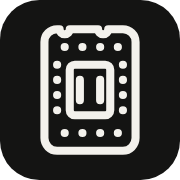
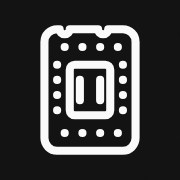
style: swap the beige default light theme for a neutral near-white

diff --git a/notas/site-theme/index.html b/notas/site-theme/index.html
@@ -10,7 +10,7 @@
   <meta name="author" content="Baselarte Ltda.">
   <meta name="application-name" content="Baselarte">
   <meta name="color-scheme" content="light dark">
-  <meta name="theme-color" content="#f3f1ec">
+  <meta name="theme-color" content="#fafafa">
 
   <!-- Sets theme (by local time) and language before first paint. -->
   <script src="../../boot.js"></script>
@@ -95,7 +95,7 @@
         </section>
         <section class="content-section" aria-labelledby="studio">
           <h2 id="studio"><span class="pt">O tema Estúdio</span><span class="en">The Studio theme</span></h2>
-<p><span class="pt">Foi derivado do visual do site <a href="https://www.estudio41.com.br/">estudio41.com.br</a>: lemos as fontes, cores e o fundo de suas páginas e montamos um sistema próprio a partir disso. Nenhuma imagem ou arquivo do site de referência foi copiado.</span><span class="en">It was derived from the look of <a href="https://www.estudio41.com.br/">estudio41.com.br</a>: we read the fonts, colours and background of its pages and built our own system from that. No image or file from the reference site was copied.</span></p><div class="scroll-x"><table class="ds-table"><thead><tr><th><span class="pt">Aspecto</span><span class="en">Aspect</span></th><th><span class="pt">Padrão</span><span class="en">Default</span></th><th><span class="pt">Estúdio</span><span class="en">Studio</span></th></tr></thead><tbody><tr><td><span class="pt">Papel / tinta</span><span class="en">Paper / ink</span></td><td>#f3f1ec / #141413</td><td>#ffffff / #171617</td></tr><tr><td><span class="pt">Texto secundário</span><span class="en">Muted text</span></td><td>#6c6a65</td><td>#555659</td></tr><tr><td><span class="pt">Títulos</span><span class="en">Headings</span></td><td>Geist</td><td>Lato 900, <span class="pt">maiúsculas</span><span class="en">uppercase</span></td></tr><tr><td><span class="pt">Texto</span><span class="en">Body</span></td><td>Geist 400</td><td>Open Sans 300</td></tr><tr><td><span class="pt">Ênfase (<code>em</code>)</span><span class="en">Emphasis (<code>em</code>)</span></td><td><span class="pt">Serifa itálica</span><span class="en">Italic serif</span></td><td><span class="pt">Lato em negrito</span><span class="en">Lato bold</span></td></tr><tr><td><span class="pt">Cantos</span><span class="en">Corners</span></td><td><span class="pt">Arredondados nos botões</span><span class="en">Rounded on buttons</span></td><td><span class="pt">Quadrados em tudo</span><span class="en">Square everywhere</span></td></tr><tr><td><span class="pt">Botões</span><span class="en">Buttons</span></td><td><span class="pt">Contorno fino</span><span class="en">Thin outline</span></td><td><span class="pt">Preenchidos, maiúsculas</span><span class="en">Filled, uppercase</span></td></tr><tr><td><span class="pt">Rodapé</span><span class="en">Footer</span></td><td><span class="pt">Igual à página</span><span class="en">Same as the page</span></td><td><span class="pt">Faixa escura</span><span class="en">Dark band</span></td></tr><tr><td><span class="pt">Fundo</span><span class="en">Background</span></td><td><span class="pt">Liso</span><span class="en">Plain</span></td><td><span class="pt">Padrão triangular</span><span class="en">Triangular pattern</span></td></tr></tbody></table></div><p><span class="pt">A variação escura do Estúdio usa papel <code>#111012</code> e tinta <code>#f4f4f5</code>, com o rodapé ainda mais escuro.</span><span class="en">Studio’s dark variation uses paper <code>#111012</code> and ink <code>#f4f4f5</code>, with an even darker footer.</span></p>
+<p><span class="pt">Foi derivado do visual do site <a href="https://www.estudio41.com.br/">estudio41.com.br</a>: lemos as fontes, cores e o fundo de suas páginas e montamos um sistema próprio a partir disso. Nenhuma imagem ou arquivo do site de referência foi copiado.</span><span class="en">It was derived from the look of <a href="https://www.estudio41.com.br/">estudio41.com.br</a>: we read the fonts, colours and background of its pages and built our own system from that. No image or file from the reference site was copied.</span></p><div class="scroll-x"><table class="ds-table"><thead><tr><th><span class="pt">Aspecto</span><span class="en">Aspect</span></th><th><span class="pt">Padrão</span><span class="en">Default</span></th><th><span class="pt">Estúdio</span><span class="en">Studio</span></th></tr></thead><tbody><tr><td><span class="pt">Papel / tinta</span><span class="en">Paper / ink</span></td><td>#fafafa / #131313</td><td>#ffffff / #171617</td></tr><tr><td><span class="pt">Texto secundário</span><span class="en">Muted text</span></td><td>#6b6b6b</td><td>#555659</td></tr><tr><td><span class="pt">Títulos</span><span class="en">Headings</span></td><td>Geist</td><td>Lato 900, <span class="pt">maiúsculas</span><span class="en">uppercase</span></td></tr><tr><td><span class="pt">Texto</span><span class="en">Body</span></td><td>Geist 400</td><td>Open Sans 300</td></tr><tr><td><span class="pt">Ênfase (<code>em</code>)</span><span class="en">Emphasis (<code>em</code>)</span></td><td><span class="pt">Serifa itálica</span><span class="en">Italic serif</span></td><td><span class="pt">Lato em negrito</span><span class="en">Lato bold</span></td></tr><tr><td><span class="pt">Cantos</span><span class="en">Corners</span></td><td><span class="pt">Arredondados nos botões</span><span class="en">Rounded on buttons</span></td><td><span class="pt">Quadrados em tudo</span><span class="en">Square everywhere</span></td></tr><tr><td><span class="pt">Botões</span><span class="en">Buttons</span></td><td><span class="pt">Contorno fino</span><span class="en">Thin outline</span></td><td><span class="pt">Preenchidos, maiúsculas</span><span class="en">Filled, uppercase</span></td></tr><tr><td><span class="pt">Rodapé</span><span class="en">Footer</span></td><td><span class="pt">Igual à página</span><span class="en">Same as the page</span></td><td><span class="pt">Faixa escura</span><span class="en">Dark band</span></td></tr><tr><td><span class="pt">Fundo</span><span class="en">Background</span></td><td><span class="pt">Liso</span><span class="en">Plain</span></td><td><span class="pt">Padrão triangular</span><span class="en">Triangular pattern</span></td></tr></tbody></table></div><p><span class="pt">A variação escura do Estúdio usa papel <code>#111012</code> e tinta <code>#f4f4f5</code>, com o rodapé ainda mais escuro.</span><span class="en">Studio’s dark variation uses paper <code>#111012</code> and ink <code>#f4f4f5</code>, with an even darker footer.</span></p>
         </section>
         <section class="content-section" aria-labelledby="pattern">
           <h2 id="pattern"><span class="pt">O fundo triangular</span><span class="en">The triangular background</span></h2>

diff --git a/notas/design-system/index.html b/notas/design-system/index.html
@@ -10,7 +10,7 @@
   <meta name="author" content="Baselarte Ltda.">
   <meta name="application-name" content="Baselarte">
   <meta name="color-scheme" content="light dark">
-  <meta name="theme-color" content="#f3f1ec">
+  <meta name="theme-color" content="#fafafa">
 
   <!-- Sets theme (by local time) and language before first paint. -->
   <script src="../../boot.js"></script>
@@ -161,10 +161,10 @@
             <table class="ds-table">
               <thead><tr><th>Token</th><th><span class="pt">Claro</span><span class="en">Light</span></th><th><span class="pt">Escuro</span><span class="en">Dark</span></th><th><span class="pt">Uso</span><span class="en">Use</span></th></tr></thead>
               <tbody>
-  <tr><td><span class="swatch" style="background:var(--paper)"></span> <code>--paper</code></td><td><code>#f3f1ec</code></td><td><code>#0d0d0c</code></td><td><span class="pt">Fundo da página.</span><span class="en">Page background.</span></td></tr>
-  <tr><td><span class="swatch" style="background:var(--ink)"></span> <code>--ink</code></td><td><code>#141413</code></td><td><code>#ebe9e3</code></td><td><span class="pt">Texto, traços, ícones e o logo.</span><span class="en">Text, strokes, icons and the logo.</span></td></tr>
-  <tr><td><span class="swatch" style="background:var(--muted)"></span> <code>--muted</code></td><td><code>#6c6a65</code></td><td><code>#8f8c86</code></td><td><span class="pt">Texto secundário.</span><span class="en">Secondary text.</span></td></tr>
-  <tr><td><span class="swatch" style="background:var(--line)"></span> <code>--line</code></td><td><code>rgba(20, 20, 19, 0.12)</code></td><td><code>rgba(235, 233, 227, 0.12)</code></td><td><span class="pt">Filetes e bordas de 1px.</span><span class="en">1px rules and borders.</span></td></tr>
+  <tr><td><span class="swatch" style="background:var(--paper)"></span> <code>--paper</code></td><td><code>#fafafa</code></td><td><code>#0d0d0c</code></td><td><span class="pt">Fundo da página.</span><span class="en">Page background.</span></td></tr>
+  <tr><td><span class="swatch" style="background:var(--ink)"></span> <code>--ink</code></td><td><code>#131313</code></td><td><code>#ebe9e3</code></td><td><span class="pt">Texto, traços, ícones e o logo.</span><span class="en">Text, strokes, icons and the logo.</span></td></tr>
+  <tr><td><span class="swatch" style="background:var(--muted)"></span> <code>--muted</code></td><td><code>#6b6b6b</code></td><td><code>#8f8c86</code></td><td><span class="pt">Texto secundário.</span><span class="en">Secondary text.</span></td></tr>
+  <tr><td><span class="swatch" style="background:var(--line)"></span> <code>--line</code></td><td><code>rgba(19, 19, 19, 0.12)</code></td><td><code>rgba(235, 233, 227, 0.12)</code></td><td><span class="pt">Filetes e bordas de 1px.</span><span class="en">1px rules and borders.</span></td></tr>
               </tbody>
             </table>
           </div>

diff --git a/styles.css b/styles.css
@@ -4,10 +4,10 @@
    ========================================================================== */
 
 :root {
-  --paper: #f3f1ec;
-  --ink: #141413;
-  --muted: #6c6a65;
-  --line: rgba(20, 20, 19, 0.12);
+  --paper: #fafafa;
+  --ink: #131313;
+  --muted: #6b6b6b;
+  --line: rgba(19, 19, 19, 0.12);
 
   --serif: "Instrument Serif", "Iowan Old Style", "Palatino Linotype", Georgia, serif;
   --sans: "Geist", ui-sans-serif, system-ui, -apple-system, "Segoe UI", Roboto, sans-serif;

diff --git a/index.html b/index.html
@@ -10,7 +10,7 @@
   <meta name="author" content="Baselarte Ltda.">
   <meta name="application-name" content="Baselarte">
   <meta name="color-scheme" content="light dark">
-  <meta name="theme-color" content="#f3f1ec">
+  <meta name="theme-color" content="#fafafa">
   <meta name="format-detection" content="telephone=no">
 
   <!-- Sets theme (by local time) and language before first paint. -->

diff --git a/404.html b/404.html
@@ -6,7 +6,7 @@
   <title data-i18n="notFound.metaTitle">Not found — Baselarte</title>
   <meta name="robots" content="noindex">
   <meta name="color-scheme" content="light dark">
-  <meta name="theme-color" content="#f3f1ec">
+  <meta name="theme-color" content="#fafafa">
 
   <!-- Sets theme (by local time) and language before first paint. -->
   <script src="/boot.js"></script>

diff --git a/notas/aws/index.html b/notas/aws/index.html
@@ -10,7 +10,7 @@
   <meta name="author" content="Baselarte Ltda.">
   <meta name="application-name" content="Baselarte">
   <meta name="color-scheme" content="light dark">
-  <meta name="theme-color" content="#f3f1ec">
+  <meta name="theme-color" content="#fafafa">
 
   <!-- Sets theme (by local time) and language before first paint. -->
   <script src="../../boot.js"></script>

diff --git a/notas/cloudflare/index.html b/notas/cloudflare/index.html
@@ -10,7 +10,7 @@
   <meta name="author" content="Baselarte Ltda.">
   <meta name="application-name" content="Baselarte">
   <meta name="color-scheme" content="light dark">
-  <meta name="theme-color" content="#f3f1ec">
+  <meta name="theme-color" content="#fafafa">
 
   <!-- Sets theme (by local time) and language before first paint. -->
   <script src="../../boot.js"></script>

diff --git a/notas/github-aws-oidc/index.html b/notas/github-aws-oidc/index.html
@@ -10,7 +10,7 @@
   <meta name="author" content="Baselarte Ltda.">
   <meta name="application-name" content="Baselarte">
   <meta name="color-scheme" content="light dark">
-  <meta name="theme-color" content="#f3f1ec">
+  <meta name="theme-color" content="#fafafa">
 
   <!-- Sets theme (by local time) and language before first paint. -->
   <script src="../../boot.js"></script>

diff --git a/notas/index.html b/notas/index.html
@@ -10,7 +10,7 @@
   <meta name="author" content="Baselarte Ltda.">
   <meta name="application-name" content="Baselarte">
   <meta name="color-scheme" content="light dark">
-  <meta name="theme-color" content="#f3f1ec">
+  <meta name="theme-color" content="#fafafa">
 
   <!-- Sets theme (by local time) and language before first paint. -->
   <script src="../boot.js"></script>

diff --git a/README.md b/README.md
@@ -96,7 +96,7 @@ The mark is a processor seen from underneath, modelled on a desktop CPU (LGA pac
 
 - **Meaning:** the processor is where software actually runs, the layer under everything the company builds. The notches are uneven on purpose: they are the key that makes the package fit one way only.
 - **Construction:** drawn on a 32×32 grid, the same one as the site's icon set. The package is 18×24 with a 2.5-unit corner radius, the centre block is 8×10 with two bars inside, and the pads are round dots (zero-length strokes with round caps). Stroke only, no fill, round caps and joins.
-- **Colour:** it always uses the current text colour (`currentColor`), so it's ink on paper by day and paper on ink by night. The palette is `#141413` ink and `#f3f1ec` paper (light theme), and `#ebe9e3` on `#0d0d0c` (dark theme).
+- **Colour:** it always uses the current text colour (`currentColor`), so it's ink on paper by day and paper on ink by night. The palette is `#131313` ink and `#fafafa` paper (light theme), and `#ebe9e3` on `#0d0d0c` (dark theme).
 - **Wordmark:** "baselarte", in lowercase Geist Medium with slightly tight letter spacing (−0.02em), set beside the mark.
 - **Files:**
   - `favicon.svg`: the mark on a rounded square, adapting to the browser's colour scheme (slightly heavier stroke so it reads at 16px).
